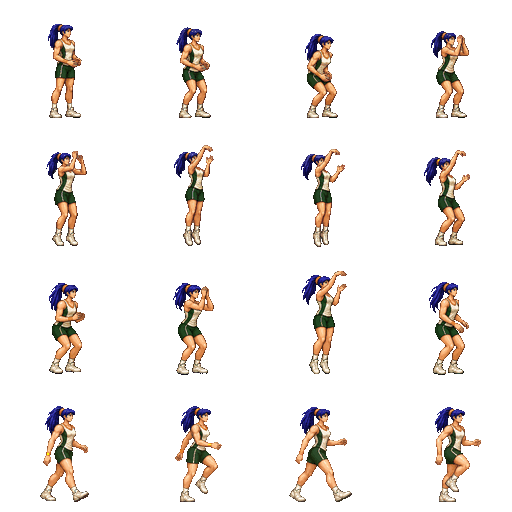
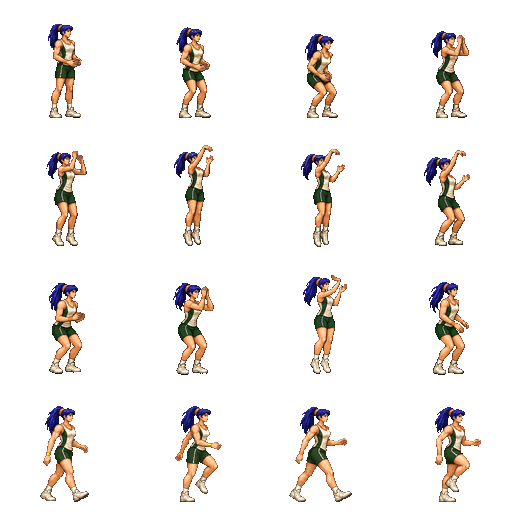
Clarify Navi's pre-release wrist and add reusable shot review

Changed region(s): [[0.5938, 0.5312, 0.6875, 0.75]]

diff --git a/dev/shot-review.html b/dev/shot-review.html
@@ -1,0 +1,77 @@
+<!doctype html>
+<html lang="ko"><meta charset="utf-8"><meta name="viewport" content="width=device-width,initial-scale=1">
+<title>투바운드 · 슛폼 검수</title>
+<style>
+*{box-sizing:border-box}body{margin:0;background:#10292a;color:#fff8de;font:16px system-ui,sans-serif}
+main{max-width:440px;padding:16px;margin:auto}h1{font-size:24px}select,button{font:inherit;padding:6px 9px}
+#poses{display:grid;grid-template-columns:repeat(3,minmax(0,1fr));gap:4px;margin:12px 0}
+figure{margin:0;text-align:center;background:#216563}figcaption{font-size:14px;padding:4px}
+canvas{display:block;image-rendering:pixelated}figure canvas{width:min(100%,128px);margin:auto}#court{width:100%;aspect-ratio:4/5;margin-top:8px}
+</style>
+<main><h1>선수 슛폼 검수</h1><label>선수 <select id="player"></select></label>
+<div id="poses">
+<figure><canvas width="128" height="128"></canvas><figcaption>릴리즈 직전</figcaption></figure>
+<figure><canvas width="128" height="128"></canvas><figcaption>공 분리</figcaption></figure>
+<figure><canvas width="128" height="128"></canvas><figcaption>팔로스루</figcaption></figure>
+</div>
+<button id="normal" disabled>실제 속도</button> <button id="slow" disabled>¼배속</button>
+<p id="status" role="status"></p><canvas id="court" aria-label="코트에서 재생한 점프슛"></canvas></main>
+<script type="module">
+import {roster, initialPlayer} from '../game/roster.js?roster=5';
+import {loadPlayer} from '../game/player-renderer.js';
+import {createRenderer} from '../game/render.js';
+import {newMatch, charge, release} from '../game/match.js';
+import {scene,rules} from '../game/defaults.js';
+
+const el = id => document.getElementById(id);
+const select = el('player'), status = el('status'), court = el('court');
+for (const [id,spec] of roster) select.add(new Option(spec.name,id));
+const requested = new URLSearchParams(location.search).get('player');
+select.value = initialPlayer(requested,'navi');
+let animation, version = 0;
+
+async function show() {
+  const current = ++version;
+  cancelAnimationFrame(animation);
+  el('normal').disabled = el('slow').disabled = true;
+  status.textContent = '도트 불러오는 중';
+  const spec = roster.get(select.value);
+  try {
+    const [actor,draw] = await Promise.all([loadPlayer(spec),createRenderer(court,{...scene,player:spec},rules)]);
+    if (current !== version) return;
+    const detach = spec.releaseMs;
+    const following = spec.poses.flight.find(([ms]) => ms > detach);
+    const times = [detach-1,detach,following?.[0] ?? detach];
+    document.querySelectorAll('figure canvas').forEach((canvas,i) => {
+      const ctx = canvas.getContext('2d');
+      ctx.clearRect(0,0,128,128);
+      const pose = actor.pose('flight',times[i]);
+      actor.draw(ctx,{x:64,y:118},1,1,{...pose,lift:0});
+    });
+    const game = newMatch();
+    const shotStart = rules.chargeMs * game.band.center;
+    charge(game,0);
+    release(game,shotStart,()=>.5);
+    draw(game,shotStart+detach);
+    status.textContent = spec.name+' · 버튼을 놓고 '+detach+'ms에 공 분리';
+    function play(rate) {
+      cancelAnimationFrame(animation);
+      const start = performance.now();
+      const end = detach + rules.flightMs - 1;
+      function frame(now) {
+        const elapsed = Math.min(end,(now-start)*rate);
+        draw(game,shotStart+elapsed);
+        if (elapsed < end) animation = requestAnimationFrame(frame);
+      }
+      animation = requestAnimationFrame(frame);
+    }
+    el('normal').onclick = () => play(1);
+    el('slow').onclick = () => play(.25);
+    el('normal').disabled = el('slow').disabled = false;
+  } catch {
+    if (current === version) status.textContent = '선수를 불러오지 못했습니다. 새로고침해 주세요.';
+  }
+}
+select.onchange = show;
+show();
+</script></html>

diff --git a/dev/index.html b/dev/index.html
@@ -11,7 +11,8 @@
   <div id="setupCamera"></div>
   <a class="liveRoster" href="../?player=rio">현재 플레이 빌드에서 리오 테스트</a>
   <a class="liveRoster" href="../?player=vera">현재 플레이 빌드에서 베라 테스트</a>
-  <a class="liveRoster" href="../?player=navi&amp;roster=4">현재 플레이 빌드에서 나비 테스트</a>
+  <a class="liveRoster" href="../?player=navi&amp;roster=5">현재 플레이 빌드에서 나비 테스트</a>
+  <a class="liveRoster" href="./shot-review.html?player=navi">선수 슛폼 검수</a>
   <button id="testGame" class="primary">이 설정으로 테스트 플레이</button><fieldset id="appearance" class="menu"><legend>선수와 테마</legend><div id="roster" role="group" aria-label="선수 선택"></div><label>테마 프리셋 <select id="preset"><option value="" hidden>직접 설정</option><option>그린 코트</option><option>나이트 게임</option><option>우드 아레나</option></select></label><input id="actor" type="hidden">
 <label>코트 <select id="floor"><option>그린</option><option>야간</option><option>우드</option></select></label>
 <label>공 <select id="skinBall"><option>오렌지</option><option>아이스</option><option>라임</option><option value="클래식" disabled>클래식 농구공 · 누적 5골</option></select></label>

diff --git a/game/art/navi/player.js b/game/art/navi/player.js
@@ -2,11 +2,11 @@
 const releaseMs = 260;
 export const player = {
   name: '나비',
-  atlas: new URL('./atlas.webp', import.meta.url),
+  atlas: new URL('./atlas.webp?art=2', import.meta.url),
   cellSize: 128, columns: 4, drawSize: 128, pivot: [64,118],
   standingPixels: 96, heightM: 1.83,
   hands: [[78,57],[79,62],[74,72],[80,32],[81,19],[88,12],[85,16],[82,19],
-    [82,55],[80,27],[86,15],[83,66],[88,61],[93,57],[90,54],[95,55]],
+    [82,55],[80,27],[84,16],[83,66],[88,61],[93,57],[90,54],[95,55]],
   poses: {
     ready: [[0,0],[440,1]],
     hold: [[0,1],[65,2],[155,8],[212,3],[285,9]],

diff --git a/game/roster.js b/game/roster.js
@@ -1,7 +1,7 @@
 import {player as guji} from './art/guji/player.js';
 import {player as rio} from './art/rio/player.js';
 import {player as vera} from './art/vera/player.js';
-import {player as navi} from './art/navi/player.js';
+import {player as navi} from './art/navi/player.js?art=2';
 
 export const roster = new Map([['guji',guji], ['rio',rio], ['vera',vera], ['navi',navi]]);
 export function initialPlayer(requested, saved) {

diff --git a/game/main.js b/game/main.js
@@ -1,5 +1,5 @@
 import {scene as baseScene, rules} from './defaults.js';
-import {roster, initialPlayer} from './roster.js?roster=4';
+import {roster, initialPlayer} from './roster.js?roster=5';
 import {createRenderer} from './render.js';
 import {newMatch, charge, cancelCharge, release, advance} from './match.js';
 import {enableAudio, tone, swish} from './audio.js';

diff --git a/index.html b/index.html
@@ -45,6 +45,6 @@
       <footer><button id="leave">게임 종료 후 홈으로</button></footer>
     </section>
   </main>
-  <script type="module" src="./game/main.js?roster=4"></script>
+  <script type="module" src="./game/main.js?roster=5"></script>
 </body>
 </html>
